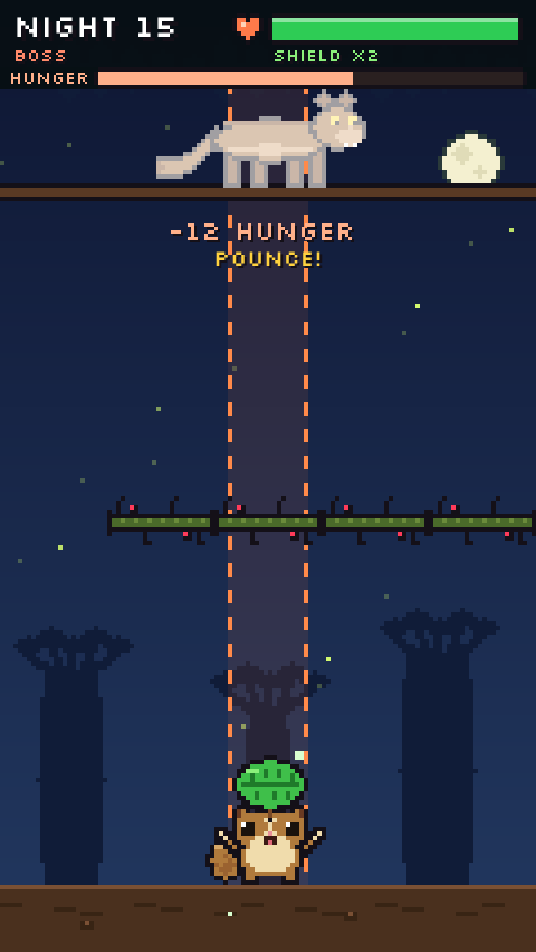
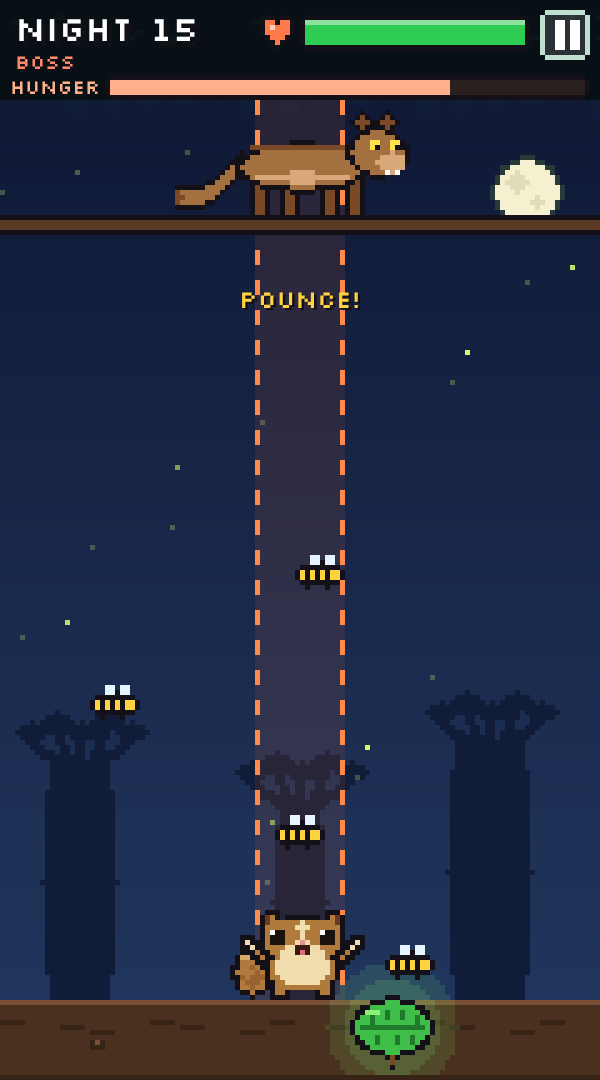
Full-screen layout on every screen size

diff --git a/src/render.js b/src/render.js
@@ -2,7 +2,7 @@
 import { G } from './state.js';
 import { LW, LH, FLOOR, PY, PW, K, FONT, TUNE, NIGHTS, AUTHOR, MILESTONES, isStorm, rankFor } from './config.js';
 import { TEXT } from './content.js';
-import { SPR, GLOW, RUSH, bgFor, LEMUR_OFFSET } from './sprites.js';
+import { SPR, GLOW, RUSH, bgFor, canopyFor, LEMUR_OFFSET } from './sprites.js';
 import { isMuted, music } from './audio.js';
 
 let ctx = null;
@@ -26,6 +26,8 @@ function box(x, y, w, h, fill, line = K) {
   rect(x + 1, y + 1, w - 2, h - 2, fill);
 }
 const blink = (t, hz) => Math.floor(t * hz) % 2 === 0;
+/** Fill the whole screen (the full view around the play area). */
+const fullRect = (c) => { const v = G.view; rect(-v.ox - 2, -v.oy - 2, v.VW + 4, v.VH + 4, c); };
 
 // ---------------------------------------------------------------- scene
 const FIREFLIES = Array.from({ length: 18 }, (_, i) => ({ x: (i * 37 + 11) % LW, y: 30 + ((i * 53) % 150), p: i * 0.9 }));
@@ -37,21 +39,36 @@ function fireflies(t) {
   }
 }
 function rain(t) {
+  const v = G.view, n = Math.round(46 * (v.VW * v.VH) / (LW * LH));
   ctx.fillStyle = 'rgba(170,200,255,0.35)';
-  for (let i = 0; i < 46; i++) {
-    const x = Math.round(((i * 29 + t * 50) % 140) - 10), y = Math.round((i * 53 + t * 230) % LH);
+  for (let i = 0; i < n; i++) {
+    const x = Math.round(((i * 29 + t * 50) % (v.VW + 20)) - 10 - v.ox), y = Math.round(((i * 53 + t * 230) % v.VH) - v.oy);
     ctx.fillRect(x, y, 1, 2); ctx.fillRect(x - 1, y + 2, 1, 2);
   }
 }
+/** Background for the whole screen: the play-area scene, with more sky above, more branch below and forest at the sides. */
+function backdrop(night, storm, daylight) {
+  const v = G.view, bg = bgFor(night, storm, daylight), side = bgFor(night, storm, daylight, false);
+  for (let k = -Math.ceil(v.ox / LW); k <= Math.ceil(v.ox / LW); k++) if (k) draw(side, k * LW, 0);
+  ctx.drawImage(bg, 0, 0, LW, 1, -v.ox - 1, -v.oy - 1, v.VW + 2, v.oy + 2);                 // sky above
+  ctx.drawImage(bg, 0, LH - 1, LW, 1, -v.ox - 1, LH - 1, v.VW + 2, v.VH - v.oy - LH + 3);  // branch below
+  draw(bg, 0, 0);
+  if (v.ox > 0.5) { rect(-v.ox - 1, 0, v.ox + 1, LH, 'rgba(0,0,0,0.35)'); rect(LW, 0, v.ox + 1, LH, 'rgba(0,0,0,0.35)'); }
+  if (v.VH - v.oy - LH > 0.5) rect(-v.ox - 1, LH, v.VW + 2, v.VH - v.oy - LH + 2, 'rgba(0,0,0,0.25)');
+}
+function canopy() {
+  const v = G.view, c = canopyFor(G.night);
+  for (let x = -Math.ceil(v.ox / LW) * LW; x < LW + v.ox; x += LW) draw(c, x, -1);
+}
 function scene(t) {
   const storm = isStorm(G.night);
-  draw(bgFor(G.night, storm, false), 0, 0);
+  backdrop(G.night, storm, false);
   if (!storm) fireflies(t);
   if (!G.boss && G.state === 'play' && G.nightT > G.nightLen - TUNE.dawn) {
     const k = Math.min(1, (G.nightT - (G.nightLen - TUNE.dawn)) / 1.2);
-    rect(0, 0, LW, LH, `rgba(255,170,120,${0.16 * k})`);
+    fullRect(`rgba(255,170,120,${0.16 * k})`);
   }
-  if (G.dayFlash > 0) { ctx.globalAlpha = Math.min(1, G.dayFlash / 0.4); draw(bgFor(1, false, true), 0, 0); ctx.globalAlpha = 1; }
+  if (G.dayFlash > 0) { ctx.globalAlpha = Math.min(1, G.dayFlash / 0.4); backdrop(1, false, true); ctx.globalAlpha = 1; }
 }
 
 // ---------------------------------------------------------------- actors
@@ -120,12 +137,13 @@ function drawBoss(t) {
   const L = b.dir < 0 ? 'L' : '';
   const sp = b.flashT > 0 ? SPR['fossaFlash' + L] : b.rage && Math.floor(t * 6) % 2 ? SPR['fossaRage' + L] : SPR['fossa' + L];
   draw(sp, b.x + jx, b.y);
-  if (b.phase === 'intro' && Math.floor(t * 4) % 2) rect(0, 0, LW, LH, 'rgba(255,90,40,0.12)');
+  if (b.phase === 'intro' && Math.floor(t * 4) % 2) fullRect('rgba(255,90,40,0.12)');
 }
 
 // ---------------------------------------------------------------- HUD + banner
 function drawHUD() {
-  rect(0, 0, LW, 15, 'rgba(6,14,14,0.8)');
+  const v = G.view;
+  rect(-v.ox - 1, Math.min(0, -G.hudY - v.oy - 1), v.VW + 2, 15 + Math.max(0, G.hudY + v.oy + 1), 'rgba(6,14,14,0.8)');
   txt('NIGHT ' + G.night, 3, 6, 7, '#ffffff', 'left');
   if (G.boss) txt('BOSS', 3, 12.5, 4, '#ff8a6a', 'left');
   else if (isStorm(G.night)) txt('STORM', 3, 12.5, 4, '#9ec8ff', 'left');
@@ -141,7 +159,7 @@ function drawHUD() {
     rect(111, 4, 2, 6, '#ffffff'); rect(114, 4, 2, 6, '#ffffff');
   }
   if (G.boss) {
-    rect(0, 15, LW, 5, 'rgba(6,14,14,0.85)');
+    rect(-v.ox - 1, 15, v.VW + 2, 5, 'rgba(6,14,14,0.85)');
     txt('HUNGER', 2, 17.6, 4, '#ffb08a', 'left', false);
     box(21, 15, 97, 5, '#2a2020');
     const hp = Math.max(0, G.boss.hp) / TUNE.bossHunger;
@@ -166,14 +184,15 @@ function drawBanner() {
 
 function soundToggles() {
   const m = isMuted();
-  txt(m ? 'SOUND OFF' : 'SOUND ON', LW - 3, 5, 4, m ? '#7a8a8a' : '#ffffff', 'right', false);
-  txt(music.on ? 'MUSIC ON' : 'MUSIC OFF', LW - 3, 11.5, 4, music.on ? '#ffffff' : '#7a8a8a', 'right', false);
+  const y = G.hudY;
+  txt(m ? 'SOUND OFF' : 'SOUND ON', LW - 3, y + 5, 4, m ? '#7a8a8a' : '#ffffff', 'right', false);
+  txt(music.on ? 'MUSIC ON' : 'MUSIC OFF', LW - 3, y + 11.5, 4, music.on ? '#ffffff' : '#7a8a8a', 'right', false);
 }
 function credit(y) { if (AUTHOR) txt('LEMUR NIGHT BY ' + AUTHOR, LW / 2, y, 4, '#6a8a88', 'center', false); }
 
 // ---------------------------------------------------------------- screens
 function drawTitle(t) {
-  draw(bgFor(1, false, false), 0, 0);
+  backdrop(1, false, false);
   fireflies(t);
   txt(TEXT.title, LW / 2, 26, 20, '#ffd23f');
   txt(TEXT.title2, LW / 2, 44, 11, '#ffffff');
@@ -194,13 +213,13 @@ function drawTitle(t) {
   if (blink(t, 2)) txt(G.touch ? 'TAP TO START' : 'PRESS SPACE', LW / 2, 165, 7, '#ffffff');
   draw(SPR.lemurA, 51 + LEMUR_OFFSET.right, PY);
   txt(G.touch ? 'DRAG ANYWHERE TO MOVE' : 'ARROWS / A D OR DRAG', LW / 2, 206, 4, '#ffffff', 'center', false);
-  txt(G.best > NIGHTS ? 'BEST: LEGEND' : G.best ? 'BEST: NIGHT ' + G.best : '30 NIGHTS. GOOD LUCK.', 3, 5, 4, '#ffd23f', 'left', false);
-  if (G.offlineReady) txt('OFFLINE READY', 3, 11.5, 4, '#8af07a', 'left', false);
+  txt(G.best > NIGHTS ? 'BEST: LEGEND' : G.best ? 'BEST: NIGHT ' + G.best : '30 NIGHTS. GOOD LUCK.', 3, G.hudY + 5, 4, '#ffd23f', 'left', false);
+  if (G.offlineReady) txt('OFFLINE READY', 3, G.hudY + 11.5, 4, '#8af07a', 'left', false);
   soundToggles();
 }
 
 function drawClear(t) {
-  rect(0, 0, LW, LH, 'rgba(8,18,18,0.72)');
+  fullRect('rgba(8,18,18,0.72)');
   txt(TEXT.survived(G.night), LW / 2, 30, 6, '#2ecc55');
   // victory dance on the branch
   const hop = Math.round(Math.abs(Math.sin(G.clearT * 7)) * 7), turn = Math.floor(G.clearT * 3.5) % 2;
@@ -218,7 +237,7 @@ function drawClear(t) {
 function card(y, h, line) { box(8, y, 104, h, '#16282a', K); rect(10, y + 2, 100, 1, line); rect(10, y + h - 3, 100, 1, line); }
 
 function drawDead(t) {
-  rect(0, 0, LW, LH, `rgba(6,10,14,${0.8 * Math.min(1, G.deadT / 0.6)})`);
+  fullRect(`rgba(6,10,14,${0.8 * Math.min(1, G.deadT / 0.6)})`);
   if (G.deadT < 0.9) {
     draw(SPR.sleep, G.px - 2, PY + 5);
     if (G.deadT > 0.3) txt('Z', G.px + 16, PY - 2 - G.deadT * 8, 5, '#bfe0ff');
@@ -244,7 +263,7 @@ function drawDead(t) {
 }
 
 function drawWin(t) {
-  rect(0, 0, LW, LH, 'rgba(8,18,18,0.85)');
+  fullRect('rgba(8,18,18,0.85)');
   if (Math.random() < 0.6) G.parts.push({ x: Math.random() * LW, y: 0, vx: 0, vy: 20, life: 2.5, age: 0, c: ['#ffd23f', '#fff3b0', '#d8ff70'][Math.random() * 3 | 0] });
   for (const p of G.parts) rect(Math.round(p.x), Math.round(p.y), 1, 1, p.c);
   card(18, 184, '#ffd23f');
@@ -265,33 +284,43 @@ function drawWin(t) {
 
 // ---------------------------------------------------------------- frame
 export function render(t) {
-  const S = G.S;
-  ctx.setTransform(S, 0, 0, S, 0, 0);
+  const S = G.S, v = G.view;
+  // play-area coordinates: (0,0) is the top-left of the 120x213 play area, wherever it sits on screen
+  const at = (dx, dy) => ctx.setTransform(S, 0, 0, S, Math.round((v.ox + dx) * S), Math.round((v.oy + dy) * S));
+  ctx.setTransform(1, 0, 0, 1, 0, 0);
   ctx.imageSmoothingEnabled = false;
-  rect(0, 0, LW, LH, '#06100e');
+  ctx.fillStyle = '#06100e';
+  ctx.fillRect(0, 0, ctx.canvas.width, ctx.canvas.height);
+  at(0, 0);
   if (G.state === 'title') return drawTitle(t);
 
   const sx = G.shake > 0 ? Math.round((Math.random() * 2 - 1) * 1.5) : 0, sy = G.shake > 0 ? Math.round((Math.random() * 2 - 1) * 1.5) : 0;
-  ctx.setTransform(S, 0, 0, S, sx * S, sy * S);
+  at(sx, sy);
   scene(t);
+  // actors are clipped to the play area, and drop out of the canopy at its top edge
+  ctx.save();
+  ctx.beginPath(); ctx.rect(0, 0, LW, LH); ctx.clip();
   drawPounces(t);
   drawBoss(t);
   drawItems(t);
   drawWarns(t);
   if (G.state !== 'dead') drawLemur(t);
+  ctx.restore();
+  canopy();
   if (isStorm(G.night) && G.state === 'play') rain(t);
   for (const p of G.parts) { ctx.globalAlpha = Math.max(0, 1 - p.age / p.life); rect(Math.round(p.x), Math.round(p.y), 1, 1, p.c); }
   ctx.globalAlpha = 1;
-  if (G.slowT > 0) { ctx.globalAlpha = Math.min(1, G.slowT * 2); draw(RUSH, 0, 0); ctx.globalAlpha = 1; }
+  if (G.slowT > 0) { ctx.globalAlpha = Math.min(1, G.slowT * 2); ctx.drawImage(RUSH, -v.ox, -v.oy, v.VW, v.VH); ctx.globalAlpha = 1; }
   for (const f of G.floats) { ctx.globalAlpha = Math.max(0, 1 - f.age / f.life); txt(f.t, f.x, f.y, 6, f.c); }
   ctx.globalAlpha = 1;
-  if (G.flash > 0) rect(0, 0, LW, LH, `rgba(255,60,40,${G.flash * 0.5})`);
+  if (G.flash > 0) fullRect(`rgba(255,60,40,${G.flash * 0.5})`);
 
-  ctx.setTransform(S, 0, 0, S, 0, 0);
+  at(0, G.hudY);
   drawHUD();
+  at(0, 0);
   drawBanner();
   if (G.paused) {
-    rect(0, 0, LW, LH, 'rgba(6,14,14,0.7)');
+    fullRect('rgba(6,14,14,0.7)');
     txt('PAUSED', LW / 2, 96, 11, '#ffd23f');
     txt(G.touch ? 'TAP TO RESUME' : 'PRESS P TO RESUME', LW / 2, 112, 4, '#ffffff');
   }

diff --git a/src/sprites.js b/src/sprites.js
@@ -316,14 +316,15 @@ function branchFloor(p, light) {
 }
 
 const bgCache = {};
-export function bgFor(night, storm, daylight) {
-  const key = daylight ? 'day' : `${weekOf(night)}-${storm ? 1 : 0}`;
+/** sky = false gives the same scene without the moon/sun, used to extend the forest sideways on wide screens. */
+export function bgFor(night, storm, daylight, sky = true) {
+  const key = (daylight ? 'day' : `${weekOf(night)}-${storm ? 1 : 0}`) + (sky ? '' : '-side');
   if (bgCache[key]) return bgCache[key];
   const c = make(LW, LH, (p) => {
     const { rect, ell } = p;
     if (daylight) {
       for (let y = 0; y < LH; y++) { const t = y / LH; rect(0, y, LW, 1, `rgb(${150 + t * 60 | 0},${210 + t * 25 | 0},${240 - t * 30 | 0})`); }
-      ell(100, 34, 6, 6, '#fff3a0');
+      if (sky) ell(100, 34, 6, 6, '#fff3a0');
       [[20, 150, 30, 5], [70, 158, 24, 4], [104, 148, 34, 6]].forEach(([x, b, h, w]) => baobab(p, x, FLOOR, h + (b - 150), w, '#7aa070'));
       branchFloor(p, true);
       return;
@@ -334,7 +335,7 @@ export function bgFor(night, storm, daylight) {
       const t = y / LH, ch = (i) => Math.round((top[i] + t * (bot[i] - top[i])) * dim);
       rect(0, y, LW, 1, `rgb(${ch(0)},${ch(1)},${ch(2)})`);
     }
-    if (!storm) { ell(105, 36, 7, 7, '#2a3a3a'); ell(105, 36, 6, 6, '#f4f0d0'); ell(103, 34, 2, 2, '#e0dcb8'); ell(107, 38, 1, 1, '#e0dcb8'); }
+    if (!sky) { /* no moon on the side panels */ } else if (!storm) { ell(105, 36, 7, 7, '#2a3a3a'); ell(105, 36, 6, 6, '#f4f0d0'); ell(103, 34, 2, 2, '#e0dcb8'); ell(107, 38, 1, 1, '#e0dcb8'); }
     else { // moon behind storm clouds
       ell(105, 36, 6, 6, '#8a8ea0');
       [[93, 38, 12, 4], [112, 33, 10, 4], [60, 28, 16, 4], [20, 40, 18, 5]].forEach(([x, y, rx, ry]) => ell(x, y, rx, ry, '#2a2e3c'));
@@ -345,6 +346,24 @@ export function bgFor(night, storm, daylight) {
     branchFloor(p, false);
   });
   return (bgCache[key] = c);
+}
+
+/** A strip of leafy canopy, tiled along the top of the play area so falling things drop out of the leaves. */
+const canopyCache = {};
+export function canopyFor(night) {
+  const w = weekOf(night);
+  if (canopyCache[w]) return canopyCache[w];
+  const dark = WEEKS[w][2], [top] = WEEKS[w], lit = `rgb(${top[0] + 22},${top[1] + 34},${top[2] + 26})`;
+  return (canopyCache[w] = make(LW, 16, (p) => {
+    const { ell, rect } = p;
+    let seed = 7 + w;
+    const rnd = () => (seed = (seed * 16807) % 2147483647) / 2147483647;
+    rect(0, 0, LW, 4, dark);
+    // overlapping leaf clumps with a ragged lower edge
+    for (let x = -4; x < LW + 6; x += 5) ell(x, 3 + (rnd() * 3 | 0), 3 + (rnd() * 2 | 0), 3 + (rnd() * 4 | 0), dark);
+    // a few lit leaf tips catching the moonlight
+    for (let i = 0; i < 26; i++) { const x = rnd() * LW | 0, y = 2 + (rnd() * 6 | 0); rect(x, y, 2, 1, lit); }
+  }));
 }
 
 /** Purple "sugar rush" vignette shown while the fig's slow-motion is active. */

diff --git a/src/input.js b/src/input.js
@@ -1,14 +1,15 @@
 // Keyboard, mouse and touch. Drag anywhere moves the lemur relative to where the finger went down.
 import { G } from './state.js';
-import { LW, LH } from './config.js';
+import { LW } from './config.js';
 import { audio, toggleMute, music } from './audio.js';
 import { startRun, beginNight, wantedTrack } from './world.js';
 
 const onResultScreen = () => G.state === 'title' || G.state === 'dead' || G.state === 'win';
-const inSoundToggle = (p) => p.y < 8.5 && p.x > LW - 42;
-const inMusicToggle = (p) => p.y >= 8.5 && p.y < 15 && p.x > LW - 42;
+// the HUD row sits at G.hudY (top of the screen), so these hit tests are relative to it
+const inSoundToggle = (p) => p.y - G.hudY < 8.5 && p.x > LW - 42;
+const inMusicToggle = (p) => p.y - G.hudY >= 8.5 && p.y - G.hudY < 15 && p.x > LW - 42;
 /** The pause button in the top-right corner of the HUD (hit area a bit bigger than the icon, for fingers). */
-const inPauseButton = (p) => p.y < 16 && p.x > LW - 17;
+const inPauseButton = (p) => p.y - G.hudY < 16 && p.x > LW - 17;
 
 export function setPaused(v) {
   G.paused = v;
@@ -28,10 +29,12 @@ export function primary() {
 }
 
 export function bindInput(cv) {
+  // screen position -> play-area coordinates (the play area sits inside the bigger full-screen view)
   const toLogical = (e) => {
-    const r = cv.getBoundingClientRect();
-    return { x: (e.clientX - r.left) / r.width * LW, y: (e.clientY - r.top) / r.height * LH };
+    const r = cv.getBoundingClientRect(), v = G.view;
+    return { x: (e.clientX - r.left) / r.width * v.VW - v.ox, y: (e.clientY - r.top) / r.height * v.VH - v.oy };
   };
+
 
   cv.addEventListener('pointerdown', (e) => {
     e.preventDefault();

diff --git a/src/main.js b/src/main.js
@@ -12,15 +12,24 @@ const cv = document.getElementById('game');
 const wrap = document.getElementById('wrap');
 setContext(cv.getContext('2d'));
 
-/** Integer-scale the 120x213 canvas to the largest size that fits, at device pixel ratio. */
+/**
+ * Full screen: the 120x213 play area is scaled as big as fits, and the canvas covers the whole screen around it.
+ * The extra space is filled with more sky above and more branch below (or forest at the sides on wide screens),
+ * so gameplay is identical on every screen shape.
+ */
 function resize() {
   const dpr = window.devicePixelRatio || 1;
-  const cs = Math.max(0.5, Math.min(wrap.clientWidth / LW, wrap.clientHeight / LH));
+  const w = wrap.clientWidth, h = wrap.clientHeight;
+  const cs = Math.max(0.5, Math.min(w / LW, h / LH));
+  const VW = w / cs, VH = h / cs;
   G.S = Math.max(1, Math.round(cs * dpr));
-  cv.width = LW * G.S;
-  cv.height = LH * G.S;
-  cv.style.width = LW * cs + 'px';
-  cv.style.height = LH * cs + 'px';
+  G.view = { VW, VH, ox: (VW - LW) / 2, oy: (VH - LH) * 0.7 };   // most of the spare height goes above, as sky
+  const safeTop = parseFloat(getComputedStyle(document.documentElement).getPropertyValue('--safe-top')) || 0;
+  G.hudY = -G.view.oy + safeTop / cs;
+  cv.width = Math.round(VW * G.S);
+  cv.height = Math.round(VH * G.S);
+  cv.style.width = w + 'px';
+  cv.style.height = h + 'px';
 }
 window.addEventListener('resize', resize);
 bindInput(cv);

diff --git a/style.css b/style.css
@@ -6,6 +6,7 @@
 
 :root {
   --void: #06100e;
+  --safe-top: env(safe-area-inset-top, 0px);
   --accent: #ffd23f;
   color-scheme: dark;
 }
@@ -18,12 +19,9 @@ html, body {
   background: var(--void);
 }
 
-/* One integer-scaled pixel canvas, centred in a dark letterbox. Everything else is drawn inside it. */
+/* One pixel canvas that fills the whole screen. Everything is drawn inside it. */
 body {
   overflow: hidden;
-  padding-block: 8px;
-  padding-left: max(16px, env(safe-area-inset-left, 0px));
-  padding-right: max(16px, env(safe-area-inset-right, 0px));
   user-select: none;
   -webkit-user-select: none;
   -webkit-touch-callout: none;
@@ -31,10 +29,8 @@ body {
 }
 
 #wrap {
-  width: 100%;
-  height: 100%;
-  display: grid;
-  place-items: center;
+  position: fixed;
+  inset: 0;
 }
 
 canvas {

diff --git a/src/state.js b/src/state.js
@@ -57,6 +57,9 @@ export const G = {
   drag: { active: false, x: 0, startX: 0, startPx: 0 },
   touch: ('ontouchstart' in window) || navigator.maxTouchPoints > 0,
   S: 3,
+  // full-screen view: the 120x213 play area sits inside a bigger view (VW x VH) that fills the screen
+  view: { VW: 120, VH: 213, ox: 0, oy: 0 },
+  hudY: 0,          // where the HUD sits, in play-area coordinates (top of the screen, below any notch)
 
   offlineReady: false,   // every game file is cached, so it will also run with no connection
 

diff --git a/sw.js b/sw.js
@@ -1,6 +1,6 @@
 // Offline support: every file the game needs is cached on first visit, so it also plays with no connection.
 // Bump VERSION whenever you publish changes; old caches are cleared automatically.
-const VERSION = 'lemur-night-v3';
+const VERSION = 'lemur-night-v4';
 const FILES = [
   './', 'index.html', 'style.css', 'manifest.webmanifest',
   'assets/fonts/silkscreen.woff2',
